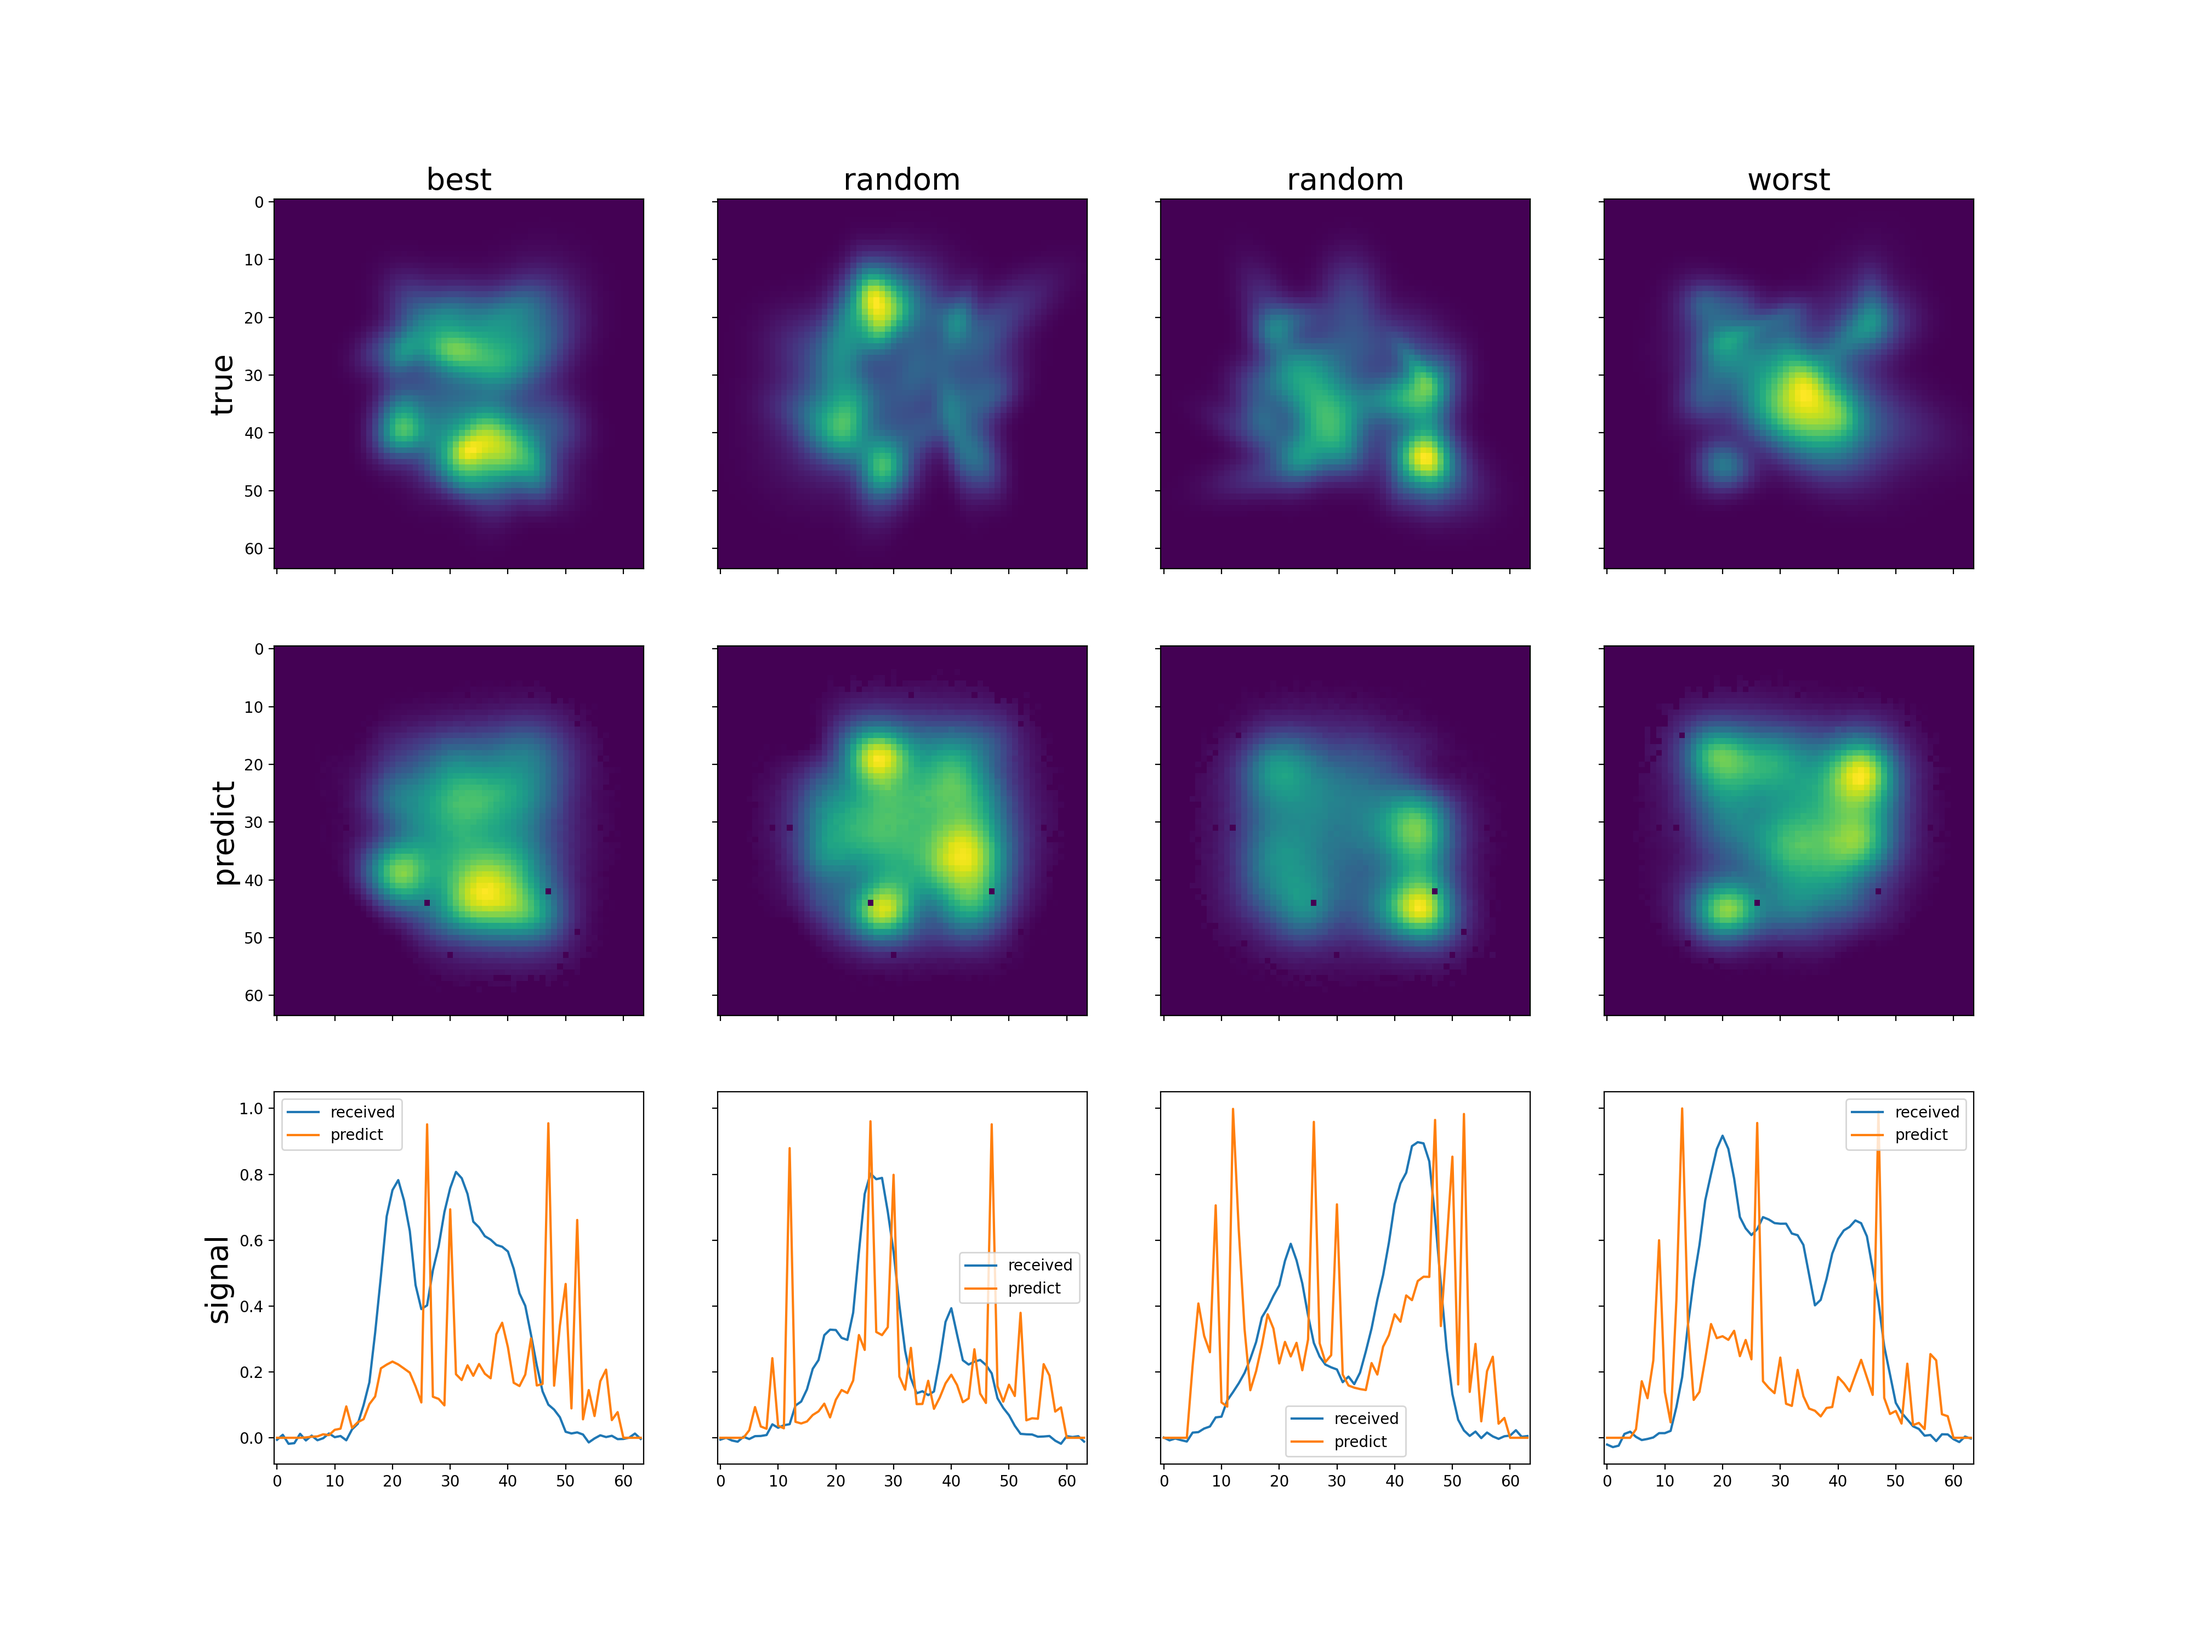
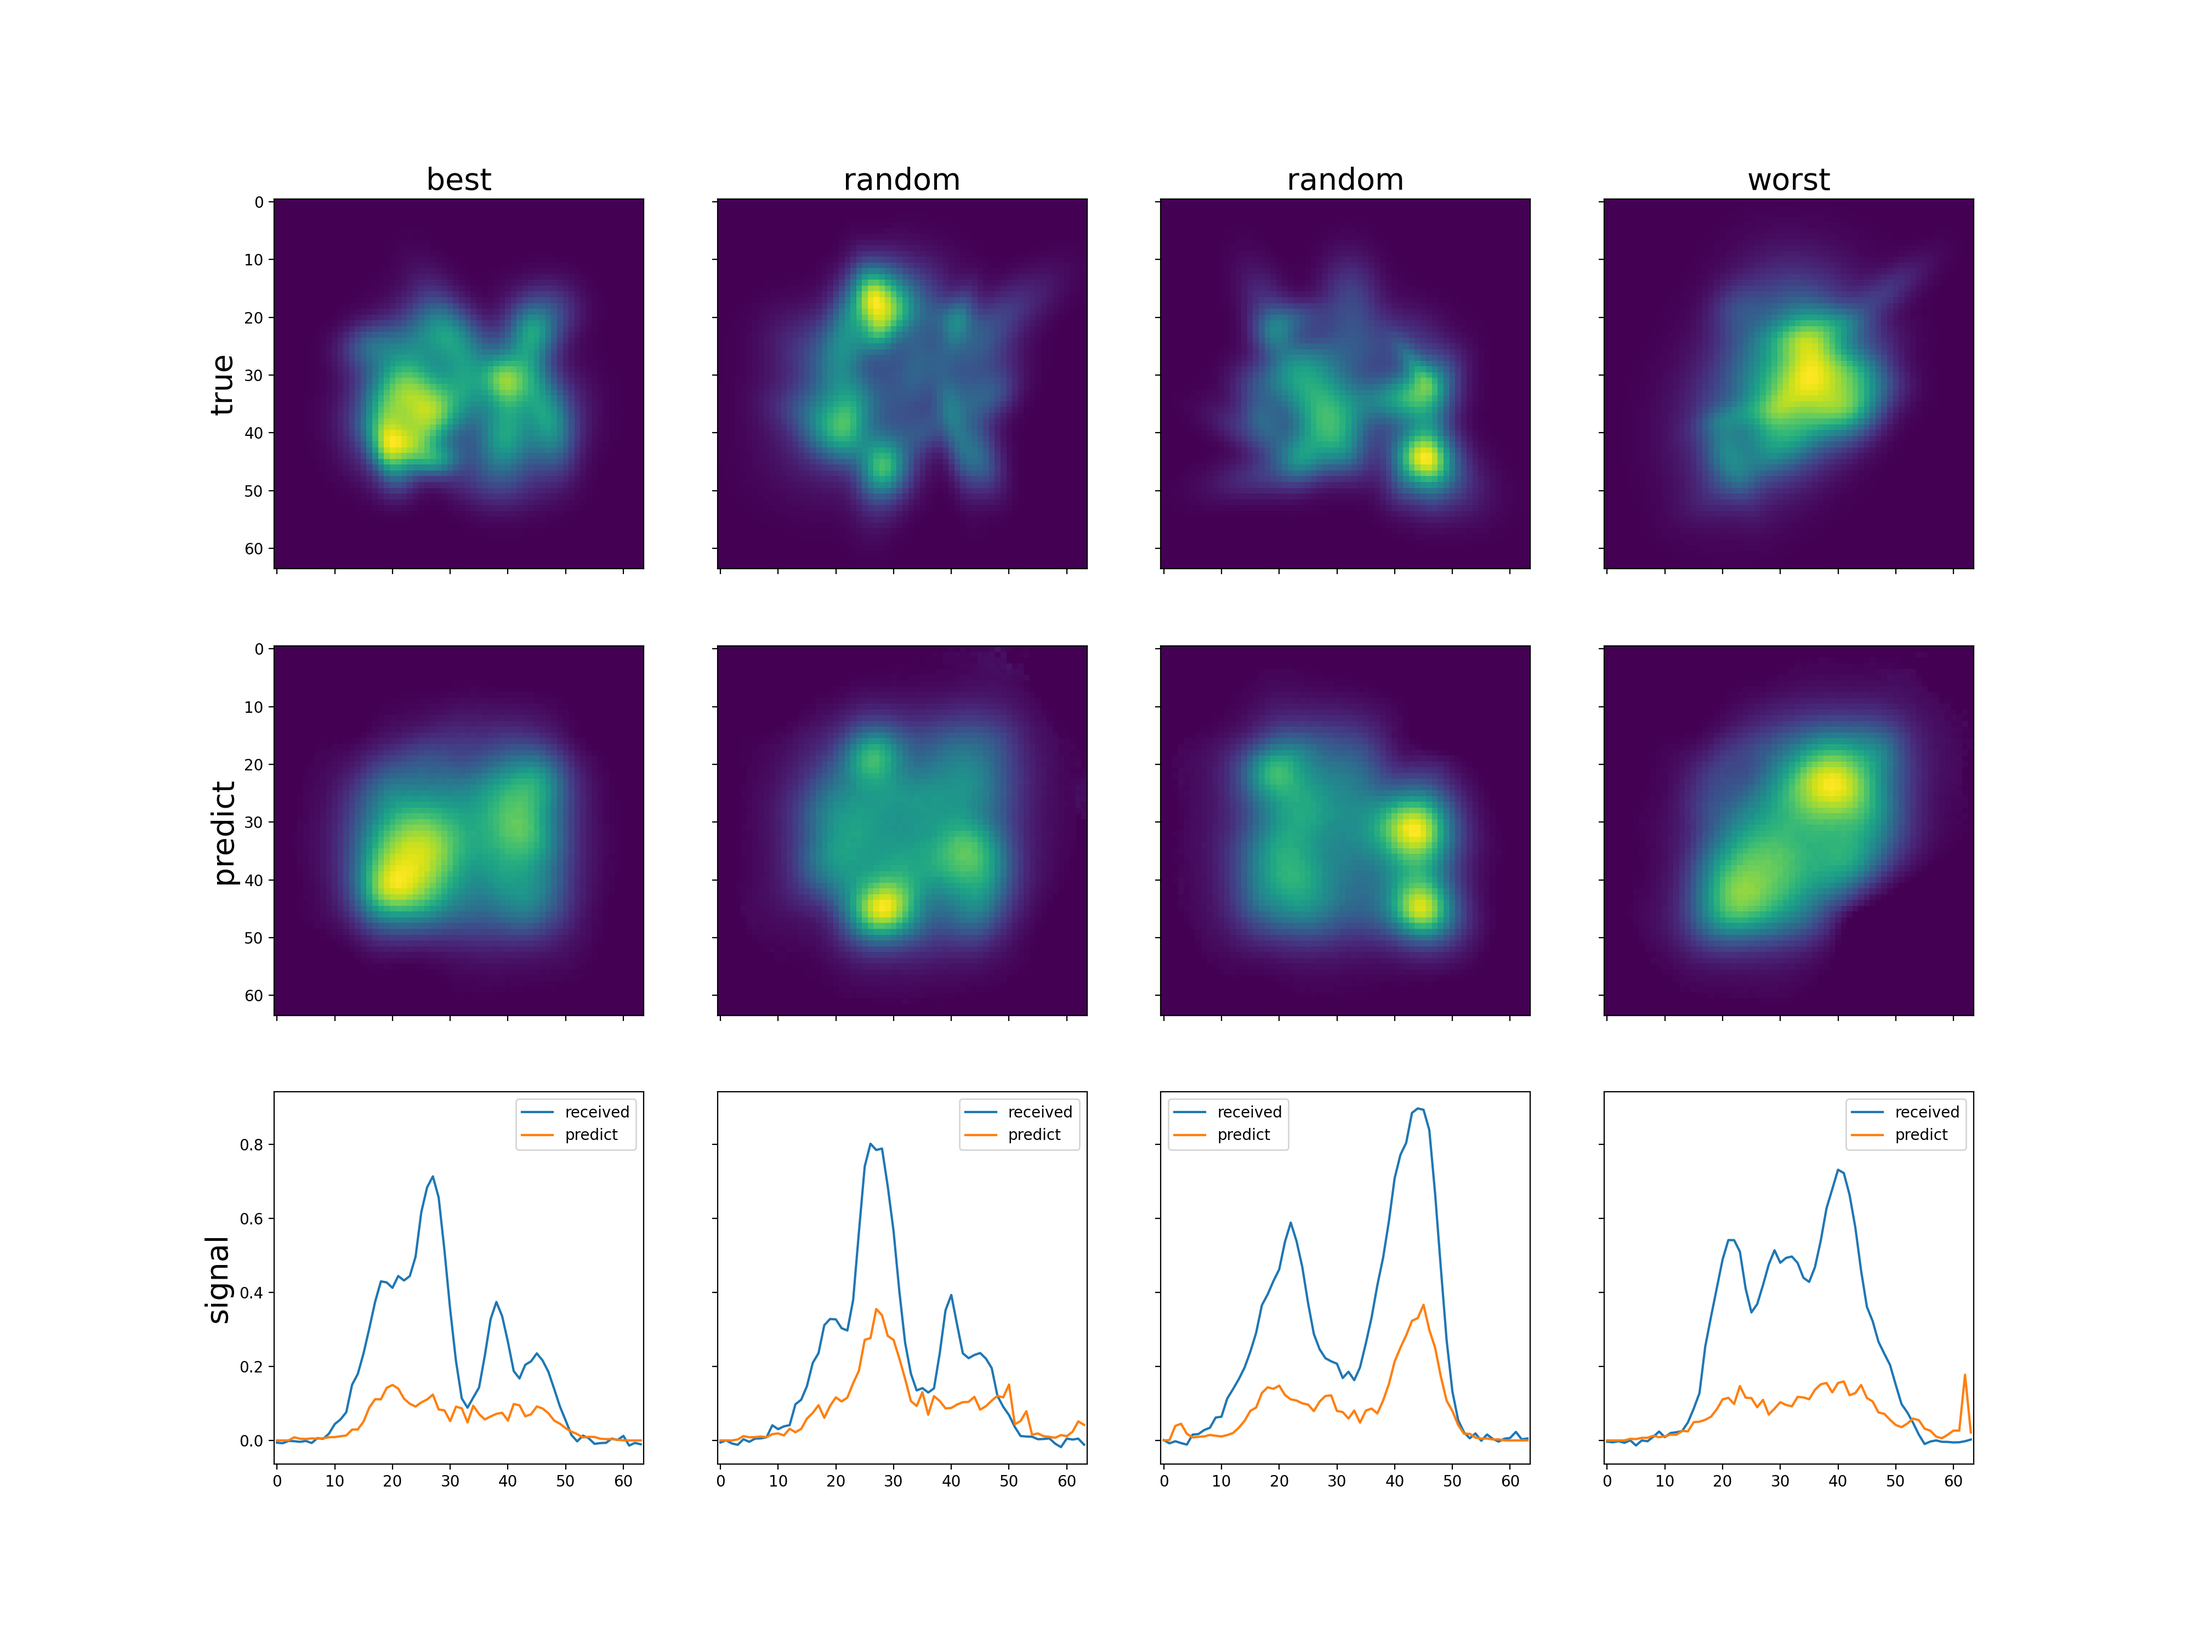
Leaky relu in the end

diff --git a/dvc_plots/index.html b/dvc_plots/index.html
@@ -22,176 +22,211 @@
         "filename": "reports/learning_curve.csv",
         "rev": "workspace",
         "step": 0,
-        "test_loss": "0.3242331428229809",
-        "train_loss": "0.4424318687650892"
+        "test_loss": "0.2318001285791397",
+        "train_loss": "0.24170623831119803"
     },
     {
         "filename": "reports/learning_curve.csv",
         "rev": "workspace",
         "step": 1,
-        "test_loss": "0.2802913669794798",
-        "train_loss": "0.30211536537110806"
+        "test_loss": "0.21597048000991345",
+        "train_loss": "0.22035407417681482"
     },
     {
         "filename": "reports/learning_curve.csv",
         "rev": "workspace",
         "step": 2,
-        "test_loss": "0.2666227947026491",
-        "train_loss": "0.2757660750316249"
+        "test_loss": "0.2123659785538912",
+        "train_loss": "0.2143919129139847"
     },
     {
         "filename": "reports/learning_curve.csv",
         "rev": "workspace",
         "step": 3,
-        "test_loss": "0.2505661318153143",
-        "train_loss": "0.26123481104274593"
+        "test_loss": "0.20982349291443825",
+        "train_loss": "0.2105213026603063"
     },
     {
         "filename": "reports/learning_curve.csv",
         "rev": "workspace",
         "step": 4,
-        "test_loss": "0.2450414143502712",
-        "train_loss": "0.2478051434904337"
+        "test_loss": "0.20842597480118275",
+        "train_loss": "0.20738331654667855"
     },
     {
         "filename": "reports/learning_curve.csv",
         "rev": "workspace",
         "step": 5,
-        "test_loss": "0.24114913828670978",
-        "train_loss": "0.24251369443701373"
+        "test_loss": "0.2075333630144596",
+        "train_loss": "0.20469805111322137"
     },
     {
         "filename": "reports/learning_curve.csv",
         "rev": "workspace",
         "step": 6,
-        "test_loss": "0.23328052881360054",
-        "train_loss": "0.23582216200232506"
+        "test_loss": "0.2071513411551714",
+        "train_loss": "0.20233474859926437"
     },
     {
         "filename": "reports/learning_curve.csv",
         "rev": "workspace",
         "step": 7,
-        "test_loss": "0.22851061981916426",
-        "train_loss": "0.22737309580047926"
+        "test_loss": "0.20715836185216904",
+        "train_loss": "0.20018632718424004"
     },
     {
         "filename": "reports/learning_curve.csv",
         "rev": "workspace",
         "step": 8,
-        "test_loss": "0.22512784832715987",
-        "train_loss": "0.22355623493426377"
+        "test_loss": "0.2074758105278015",
+        "train_loss": "0.19817859877645969"
     },
     {
         "filename": "reports/learning_curve.csv",
         "rev": "workspace",
         "step": 9,
-        "test_loss": "0.2241418568789959",
-        "train_loss": "0.22002957125173675"
+        "test_loss": "0.20797619323432445",
+        "train_loss": "0.19625250294970142"
     },
     {
         "filename": "reports/learning_curve.csv",
         "rev": "workspace",
         "step": 10,
-        "test_loss": "0.221567019328475",
-        "train_loss": "0.21662654746572177"
+        "test_loss": "0.20882098776102065",
+        "train_loss": "0.19439872292677562"
     },
     {
         "filename": "reports/learning_curve.csv",
         "rev": "workspace",
         "step": 11,
-        "test_loss": "0.2178778909444809",
-        "train_loss": "0.21193329290217824"
+        "test_loss": "0.2095252910107374",
+        "train_loss": "0.19262332255807188"
     },
     {
         "filename": "reports/learning_curve.csv",
         "rev": "workspace",
         "step": 12,
-        "test_loss": "0.21765846487879753",
-        "train_loss": "0.20888947623471418"
+        "test_loss": "0.2102303676456213",
+        "train_loss": "0.1908811622295115"
     },
     {
         "filename": "reports/learning_curve.csv",
         "rev": "workspace",
         "step": 13,
-        "test_loss": "0.21561081457138062",
-        "train_loss": "0.20639150448640187"
+        "test_loss": "0.21117713576555253",
+        "train_loss": "0.18915895163516203"
     },
     {
         "filename": "reports/learning_curve.csv",
         "rev": "workspace",
         "step": 14,
-        "test_loss": "0.21602773994207383",
-        "train_loss": "0.2033262642837233"
+        "test_loss": "0.21220860263705255",
+        "train_loss": "0.18746254437665144"
     },
     {
         "filename": "reports/learning_curve.csv",
-        "rev": "140e9b",
+        "rev": "973a7c",
         "step": 0,
-        "test_loss": "0.2621103532761335",
-        "train_loss": "0.32980576982266374"
+        "test_loss": "0.23149331799149514",
+        "train_loss": "0.24252057059937054"
     },
     {
         "filename": "reports/learning_curve.csv",
-        "rev": "140e9b",
+        "rev": "973a7c",
         "step": 1,
-        "test_loss": "0.22339728491008282",
-        "train_loss": "0.23688885054323408"
+        "test_loss": "0.21682263094186782",
+        "train_loss": "0.22074929566846954"
     },
     {
         "filename": "reports/learning_curve.csv",
-        "rev": "140e9b",
+        "rev": "973a7c",
         "step": 2,
-        "test_loss": "0.21659136661887168",
-        "train_loss": "0.22047359896865157"
+        "test_loss": "0.21287309649586678",
+        "train_loss": "0.21487228267888228"
     },
     {
         "filename": "reports/learning_curve.csv",
-        "rev": "140e9b",
+        "rev": "973a7c",
         "step": 3,
-        "test_loss": "0.21435306760668754",
-        "train_loss": "0.21515232273605134"
+        "test_loss": "0.2104618386477232",
+        "train_loss": "0.2110318397598134"
     },
     {
         "filename": "reports/learning_curve.csv",
-        "rev": "140e9b",
+        "rev": "973a7c",
         "step": 4,
-        "test_loss": "0.21127900134027006",
-        "train_loss": "0.21086062111788326"
+        "test_loss": "0.209076359719038",
+        "train_loss": "0.20796417510178353"
     },
     {
         "filename": "reports/learning_curve.csv",
-        "rev": "140e9b",
+        "rev": "973a7c",
         "step": 5,
-        "test_loss": "0.21039364013075829",
-        "train_loss": "0.20730411417120032"
+        "test_loss": "0.20822078353166582",
+        "train_loss": "0.2053701833387216"
     },
     {
         "filename": "reports/learning_curve.csv",
-        "rev": "140e9b",
+        "rev": "973a7c",
         "step": 6,
-        "test_loss": "0.2083345621675253",
-        "train_loss": "0.20393871875438424"
+        "test_loss": "0.20771404089033604",
+        "train_loss": "0.20306191802024842"
     },
     {
         "filename": "reports/learning_curve.csv",
-        "rev": "140e9b",
+        "rev": "973a7c",
         "step": 7,
-        "test_loss": "0.20837613715231418",
-        "train_loss": "0.20110572372542487"
+        "test_loss": "0.20751594042778015",
+        "train_loss": "0.2009457196874751"
     },
     {
         "filename": "reports/learning_curve.csv",
-        "rev": "140e9b",
+        "rev": "973a7c",
         "step": 8,
-        "test_loss": "0.20859624238312244",
-        "train_loss": "0.19902377942535612"
+        "test_loss": "0.20769414994120597",
+        "train_loss": "0.19894721223248377"
     },
     {
         "filename": "reports/learning_curve.csv",
-        "rev": "140e9b",
+        "rev": "973a7c",
         "step": 9,
-        "test_loss": "0.208831278398633",
-        "train_loss": "0.19705334088537427"
+        "test_loss": "0.2080470857769251",
+        "train_loss": "0.19706834500531356"
+    },
+    {
+        "filename": "reports/learning_curve.csv",
+        "rev": "973a7c",
+        "step": 10,
+        "test_loss": "0.20875018662214279",
+        "train_loss": "0.19527451326284143"
+    },
+    {
+        "filename": "reports/learning_curve.csv",
+        "rev": "973a7c",
+        "step": 11,
+        "test_loss": "0.20938788324594498",
+        "train_loss": "0.19352589137521056"
+    },
+    {
+        "filename": "reports/learning_curve.csv",
+        "rev": "973a7c",
+        "step": 12,
+        "test_loss": "0.21039460936188698",
+        "train_loss": "0.19182122966812717"
+    },
+    {
+        "filename": "reports/learning_curve.csv",
+        "rev": "973a7c",
+        "step": 13,
+        "test_loss": "0.2113719708174467",
+        "train_loss": "0.19010545528266165"
+    },
+    {
+        "filename": "reports/learning_curve.csv",
+        "rev": "973a7c",
+        "step": 14,
+        "test_loss": "0.2125582264214754",
+        "train_loss": "0.18840617873602444"
     }
 ]
     },

diff --git a/torch_sensor_lib/nets.py b/torch_sensor_lib/nets.py
@@ -59,7 +59,7 @@ class TorchSensorNN5S_norm_deep(nn.Module):
             nn.Linear(15*13, 30*30),
             nn.ReLU(),
             nn.Linear(30*30, output_shape[-1]*output_shape[-2]),
-            # nn.ReLU()
+            nn.LeakyReLU(0.01)
         )
 
     def forward(self, x):

diff --git a/reports/report.md b/reports/report.md
@@ -1,19 +1,40 @@
-# Report about training model **TorchSensorNN**
+# Report about training model **TorchSensorNN5S_norm_deep**
 ## Architecture summary
 ```
 
-TorchSensorNN(
-  (sequential): Sequential(
-    (0): Flatten(start_dim=1, end_dim=-1)
-    (1): Linear(in_features=256, out_features=600, bias=True)
-    (2): ReLU()
-    (3): Linear(in_features=600, out_features=600, bias=True)
-    (4): ReLU()
-    (5): Linear(in_features=600, out_features=600, bias=True)
-    (6): ReLU()
-    (7): Linear(in_features=600, out_features=4096, bias=True)
-    (8): ReLU()
-    (9): Unflatten(dim=1, unflattened_size=torch.Size([64, 64]))
+TorchSensorNN5S_norm_deep(
+  (conv1): Sequential(
+    (0): Conv2d(1, 8, kernel_size=(3, 1), stride=(1, 1), padding=same)
+    (1): ReLU()
+  )
+  (block1): Sequential(
+    (0): MaxPool2d(kernel_size=(2, 1), stride=(2, 1), padding=0, dilation=1, ceil_mode=False)
+    (1): InstanceNorm2d(8, eps=1e-05, momentum=0.1, affine=True, track_running_stats=True)
+    (2): Conv2d(8, 64, kernel_size=(3, 1), stride=(1, 1), padding=same)
+    (3): ReLU()
+    (4): MaxPool2d(kernel_size=(2, 1), stride=(2, 1), padding=0, dilation=1, ceil_mode=False)
+    (5): InstanceNorm2d(64, eps=1e-05, momentum=0.1, affine=True, track_running_stats=True)
+  )
+  (pool1): MaxPool2d(kernel_size=(4, 1), stride=(4, 1), padding=0, dilation=1, ceil_mode=False)
+  (block2): Sequential(
+    (0): Conv2d(72, 128, kernel_size=(3, 1), stride=(1, 1), padding=same)
+    (1): ReLU()
+    (2): MaxPool2d(kernel_size=(2, 1), stride=(2, 1), padding=0, dilation=1, ceil_mode=False)
+    (3): InstanceNorm2d(128, eps=1e-05, momentum=0.1, affine=True, track_running_stats=True)
+    (4): Conv2d(128, 128, kernel_size=(3, 1), stride=(1, 1), padding=same)
+    (5): MaxPool2d(kernel_size=(2, 1), stride=(2, 1), padding=0, dilation=1, ceil_mode=False)
+  )
+  (conv2): Sequential(
+    (0): Conv2d(200, 64, kernel_size=(1, 4), stride=(1, 1))
+    (1): ReLU()
+  )
+  (linear): Sequential(
+    (0): Linear(in_features=256, out_features=195, bias=True)
+    (1): ReLU()
+    (2): Linear(in_features=195, out_features=900, bias=True)
+    (3): ReLU()
+    (4): Linear(in_features=900, out_features=4096, bias=True)
+    (5): LeakyReLU(negative_slope=0.01)
   )
 )
 
